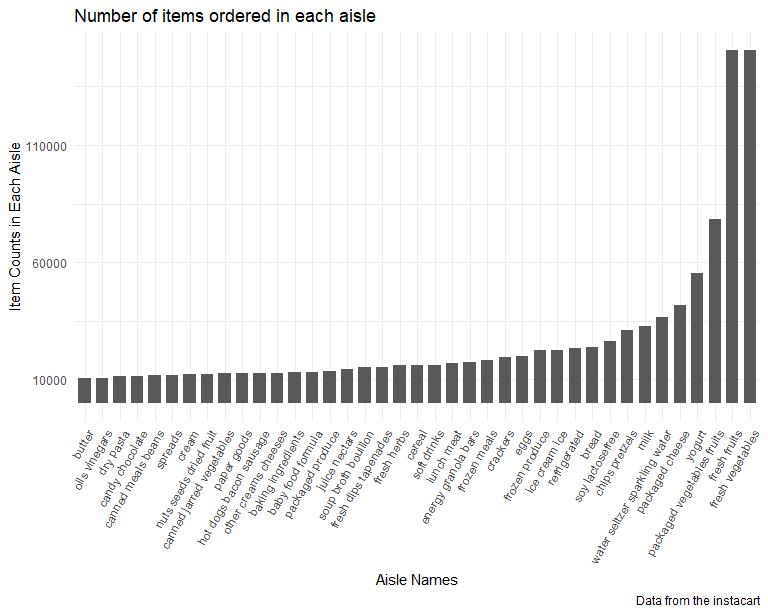
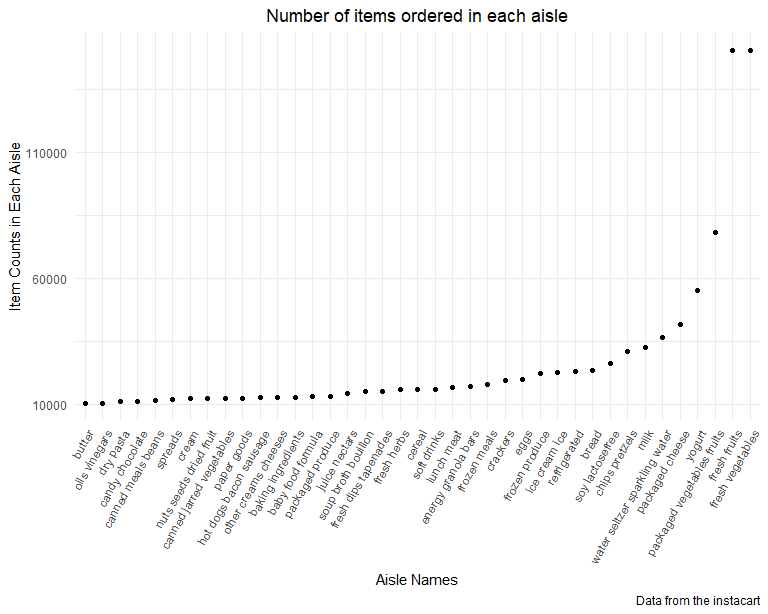
add comment and modify code for p1

diff --git a/p8105_hw3_yw4251.md b/p8105_hw3_yw4251.md
@@ -69,6 +69,8 @@ instacart
     ## #   days_since_prior_order <int>, product_name <chr>, aisle_id <int>,
     ## #   department_id <int>, aisle <chr>, department <chr>
 
+## Description
+
 This dataset contains 1384617 rows and 15 columns, where each row in the
 dataset is a product from an order. Variables include identifiers for
 user, order, and product; the order in which each product was added to
@@ -95,14 +97,20 @@ aisle_counts=
 There are 134 aistles, and fresh vegetables are the most items ordered
 from.
 
-## Make a plot that shows the number of items ordered in each aisle, limiting this to aisles with more than 10000 items ordered. Arrange aisles sensibly, and organize your plot so others can read it.
+## Make a plot that shows the number of items ordered in each aisle, limiting this to aisles with more than 10000 items ordered. Arrange aisles sensibly, and organize your plot so others can read it. As shown:
+
+Aisles are ordered by ascending number of items. The majority of aisles
+have a low order count, close to the 10,000 mark or below. However, as
+we move to the right side of the graph, there is a noticeable increase
+in the number of items ordered for `fresh vegetables` and
+`fresh fruits`.
 
 ``` r
 aisle_counts %>% 
   filter(n_obs>10000) %>% 
   mutate(aisle = forcats::fct_reorder(aisle, n_obs)) %>% 
   ggplot(aes(x=aisle,y=n_obs))+
-  geom_bar(stat = "identity",width=0.7)+
+  geom_point()+
   labs(
     title = "Number of items ordered in each aisle",
     x = "Aisle Names",
@@ -111,12 +119,23 @@ aisle_counts %>%
   scale_y_continuous(
     breaks = c(10000, 60000, 110000, 160000),
     labels = c("10000","60000", "110000","160000"))+
-  theme(axis.text.x = element_text(angle = 60, hjust = 1))
+  theme(axis.text.x = element_text(angle = 60, hjust = 1),
+        plot.title = element_text(hjust = 0.5))
 ```
 
 <img src="p8105_hw3_yw4251_files/figure-gfm/unnamed-chunk-4-1.png" width="90%" />
 
-## Make a table showing the three most popular items in each of the aisles “baking ingredients”, “dog food care”, and “packaged vegetables fruits”.
+## Make a table showing the three most popular items in each of the aisles “baking ingredients”, “dog food care”, and “packaged vegetables fruits”. As shown:
+
+`Baking Ingredients Aisle`: Sweeteners like “Light Brown Sugar” and
+leavening agents such as “Pure Baking Soda” and “Cane Sugar” are popular
+choices.
+
+`Dog Food Care Aisle`: Premium dog treats and high-quality dog food like
+“Organic Chicken & Brown Rice Recipe” are favored.
+
+`Packaged Vegetables Fruits Aisle`: Organic and healthy options like
+“Organic Baby Spinach” and “organic berries” are in high demand.
 
 ``` r
 instacart %>% 
@@ -144,7 +163,10 @@ instacart %>%
 | packaged vegetables fruits | Organic Raspberries                           |  5546 |    2 |
 | packaged vegetables fruits | Organic Blueberries                           |  4966 |    3 |
 
-## Make a table showing the mean hour of the day at which Pink Lady Apples and Coffee Ice Cream are ordered on each day of the week.
+## Make a table showing the mean hour of the day at which Pink Lady Apples and Coffee Ice Cream are ordered on each day of the week. As shown:
+
+Pink Lady Apples tend to be purchased a bit earlier in the day compared
+to Coffee Ice Cream, except for day 5
 
 ``` r
 instacart %>% 
@@ -153,16 +175,16 @@ instacart %>%
   summarize(mean_hour=mean(order_hour_of_day)) %>% 
   pivot_wider(names_from = order_dow,
               values_from=mean_hour) %>% 
-  knitr::kable()
+  knitr::kable(digits=2)
 ```
 
     ## `summarise()` has grouped output by 'product_name'. You can override using the
     ## `.groups` argument.
 
-| product_name     |        0 |        1 |        2 |        3 |        4 |        5 |        6 |
-|:-----------------|---------:|---------:|---------:|---------:|---------:|---------:|---------:|
-| Coffee Ice Cream | 13.77419 | 14.31579 | 15.38095 | 15.31818 | 15.21739 | 12.26316 | 13.83333 |
-| Pink Lady Apples | 13.44118 | 11.36000 | 11.70213 | 14.25000 | 11.55172 | 12.78431 | 11.93750 |
+| product_name     |     0 |     1 |     2 |     3 |     4 |     5 |     6 |
+|:-----------------|------:|------:|------:|------:|------:|------:|------:|
+| Coffee Ice Cream | 13.77 | 14.32 | 15.38 | 15.32 | 15.22 | 12.26 | 13.83 |
+| Pink Lady Apples | 13.44 | 11.36 | 11.70 | 14.25 | 11.55 | 12.78 | 11.94 |
 
 # Problem 2
 
